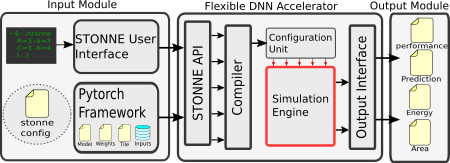
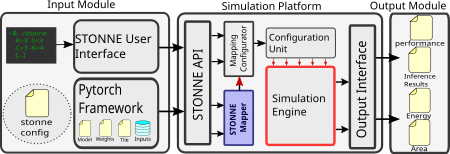
Update README with STONNE Mapper documentation

diff --git a/README.md b/README.md
@@ -7,6 +7,7 @@
     - [Flexible DNN Architecture](#flexible-dnn-architecture)
     - [Input Module](#input-module)
     - [Output module](#output-module)
+    - [STONNE Mapper: Module for automatic tile generation](#stonne-mapper-module-for-automatic-tile-generation)
   - [Supported Architectures](#supported-architectures)
   - [STONNE User Interface. How to run STONNE quickly.](#stonne-user-interface-how-to-run-stonne-quickly)
     - [Installation](#installation)
@@ -45,7 +46,7 @@ dense DNNs, more recent architectures have argued for flexibility to efficiently
 ![alt text](https://github.com/francisco-munoz/stonne/blob/master/figures/Top_Level_Stonne_shorter.png)
 
 STONNE is a cycle-level microarchitectural simulator for flexible DNN inference accelerators. To allow for end-to-end evaluations, the simulator is connected with a Deep Learning (DL) framework (Caffe and Pytorch DL frameworks in the current version). Therefore, STONNE can fully execute any dense and sparse DNN models supported by the DL framework that uses as its front-end.
- The simulator has been written entirely in C++, following the well-known GRASP and SOLID programming principles of object-oriented design. This has simplified its development and makes it easier the implementation of any kind of DNN inference accelerator microarchitecture, tile configuration mappings and dataflows.
+The simulator has been written entirely in C++, following the well-known GRASP and SOLID programming principles of object-oriented design. This has simplified its development and makes it easier the implementation of any kind of DNN inference accelerator microarchitecture, tile configuration mappings and dataflows.
 
 The figure presented above shows a high-level view of STONNE with the three major modules involved in the end-to-end simulation flow:
 
@@ -62,6 +63,16 @@ Furthermore, since these DL frameworks require a more complicated installation a
 ### Output module
 
 Once a simulation for a certain layer has been completed, this module is used for reporting simulation statistics such as performance, compute unit utilization, number of accesses to SRAM, wires and FIFOs, etc. Besides, this output module also reports the amount of energy consumed and the on-chip area required by the simulated architecture. These statistics obviously depend on the particular data format (e.g., fp16 or int8) utilized to represent the DNN model's parameters. So, STONNE supports different data formats in the whole end-to-end evaluation process and statistics report. For estimating both area and energy consumption, STONNE utilizes a table-based area and energy model, computing total energy using the cycle-level activity stats for each module. For the current table-based numbers existend in STONNE (see 'stonne/energy\_tables/' path), we ran synthesis using Synopsys Design-Compiler and place-and-route using Cadence Innovus on each module inside the MAERI and SIGMA RTL to populate the table. Users can plug in the numbers for their own implementations as well.
+
+### STONNE Mapper: Module for automatic tile generation
+
+Flexible architectures need to be configured previously to execute any layer, commonly using a tile specification. The specified tile will drastically vary the results obtained in each execution, so choosing a good configuration is an important step when doing simulations. However, finding an optimal configuration is a task that requieres so much time or a deep knowledge of how each mapping would work.
+
+For this reasson, STONNE includes a module called STONNE Mapper. It is a mapper which can automatically generate, given the hardware configuration and the specification of the layer to be simualated, a tile configuration that will be close to the optimum one in most cases. When used, the module will generate an output file with some extra information of the process used to select the tile. STONNE Mapper is an excellent alternative for fast prototyping and a good helper in finding the optimal tile configuration when the search space is very large.
+
+Currently, STONNE Mapper gives support to generate mappings of CONV, FC/DenseGEMM and SparseDense layers (how to use it in every case is explained later). For CONV mappings it integrates and use mRNA, another mapper designed for MAERI presented on ISPASS-2019. For FC/DenseGEMM and SparseDense it implements its own algorithms. In the most of the cases, the generated mappings gets more than the 90% of the performance from optimum configuration (based on the results obtained in our benchmarks), so it has a high trustly degree.
+
+This module and all of the implementations were made in a Final Degree Project in June 2022. Any question about its use or implementation can be made by contacting the author, Adrián Fenollar Navarro ([@Adrian-2105](https://github.com/Adrian-2105)).
 
 ## Supported Architectures	
 
@@ -89,7 +100,7 @@ Currently, STONNE runs 4 types of operations: Convolution Layers, FC Layers, Den
 
 The sintax of a STONNE user interface command to run any of the available operations is as follows:
 ```powershell
-./stonne [-h | -CONV | -FC | -SparseGEMM | -DenseGEMM] [Hardware parameters] [Dimension and tile Parameters]
+./stonne [-h | -CONV | -FC | -DenseGEMM | -SparseGEMM | SparseDense] [Hardware parameters] [Dimension and tile Parameters]
 ```
 
 ### Help Menu
@@ -125,7 +136,7 @@ The hardware parameters are common for all the kernels. Other parameters can be 
     
     Type of Multiplier network to be used. Linear is for flexible architectures, OS\_MESH for rigid architectures like TPU.
 
-* `mem_ctrl = [MAERI_DENSE_WORKLOAD, SIGMA_SPARSE_GEMM, TPU_OS_DENSE]`
+* `mem_ctrl = [MAERI_DENSE_WORKLOAD, SIGMA_SPARSE_GEMM, TPU_OS_DENSE, MAGMA_SPARSE_DENSE]`
     
     Type of memory controller to be used
 
@@ -140,11 +151,16 @@ The hardware parameters are common for all the kernels. Other parameters can be 
 
 ### Dimension and tile Parameters
 
-Obviously, the dimensions of the kernel depends on the type of the operation that is going to be run. Next, it is described the different parameters according to each supported operation:
+Obviously, the dimensions of the kernel depends on the type of the operation that is going to be run.
+
+If you intend to use STONNE Mapper to generate the tile configuration, note that the tile parameters (`T_x`) will be ignored and STONNE will only use the configuration it generates. In the same way, if you use STONNE Mapper, there is not need for the user to manually specify the tile parameters.
+
+
+Next, it is described the different parameters according to each supported operation:
 
 * CONV
 
-    * `layer_name`
+    * `layer_name = [CONV]`
         
         Name of the layer to run. The output statistic file will be named accordingly
 
@@ -216,6 +232,20 @@ Obviously, the dimensions of the kernel depends on the type of the operation tha
     
         Number of input columns mapped a time
 
+    * **STONNE Mapper**
+
+        * If used, the following parameters can be skipped: `strides`, `T_R`, `T_S`, `T_C`, `T_K`, `T_G`, `T_N`, `T_X_` and `T_Y_`.
+        
+        * When using it, it is mandatory to also use the option `-accumulation_buffer=1` to ensure that the tile configuration can adjust to the hardware resources.
+
+        * `generate_tile = [0 | none, 1 | performance, 2 | energy, 3 | energy_efficiency]`
+
+          STONNE Mapper is disabled by default (0, `none`). To use it you must to specify a target (1, 2 or 3; also the names can be used). The targets for the tile generation on CONV layers can be: `performance` (1) for maximize the performance, `energy` (2) for minimize the energy consumption and `energy-efficiency` (3) for get a balance between performance and energy.
+
+        * `generator = [Auto, mRNA]`
+
+          [Testing option] At the moment, only `mRNA` algorithm is supported for these type of layers.
+
     * **Constraints**
 
         Please make sure that these next constraints are followed (i.e., tile dimension must be multiple of its dimension):
@@ -231,7 +261,7 @@ Obviously, the dimensions of the kernel depends on the type of the operation tha
 
 * FC
 
-    * `layer_name = [str]`
+    * `layer_name = [FC]`
     
         Name of the layer to run. The output statistic file will be called by this name
 
@@ -259,9 +289,23 @@ Obviously, the dimensions of the kernel depends on the type of the operation tha
     
         Number of input neurons mapped at a time
 
+    * **STONNE Mapper**
+
+        * If used, the following parameters can be skipped: `T_M`, `T_N` and `T_K`.
+
+        * When using it, it is mandatory to also use the option `-accumulation_buffer=1` to ensure that the tile configuration can adjust to the hardware resources.
+
+        * `generate_tile = [0 | none, 1 | performance]`
+
+          STONNE Mapper is disabled by default (0, `none`). To use it you must to specify a target (1; also the names can be used). The only target available at the moment for the tile generation on FC/DenseGEMM layers is `performance` (1) for maximize the performance. However, the generated mapping is also the best mapping for the other targets for this type of layers.
+
+        * `generator = [Auto, StonneMapper, mRNA]`
+
+          [Testing option]  The user can select which algorithm to use to generate the mapping. By default, `StonneMapper` is always used because it gets better results in all cases (because it is a direct improvement of `mRNA`). This option should only be used if it is needed to test the mRNA tile generation for these type of layers.
+
 * DenseGEMM
 
-    * `layer_name = [str]`
+    * `layer_name = [DenseGEMM]`
     
         Name of the layer to run. The output statistic file will be called by this name
 
@@ -289,9 +333,24 @@ Obviously, the dimensions of the kernel depends on the type of the operation tha
     
         Number of K elements mapped at a time
 
+    * **STONNE Mapper**
+
+        * If used, the following parameters can be skipped: `T_M`, `T_N` and `T_K`.
+
+        * When using it, it is mandatory to also use the option `-accumulation_buffer=1` to ensure that the tile configuration can adjust to the hardware resources.
+
+        * `generate_tile = [0 | none, 1 | performance]`
+
+          STONNE Mapper is disabled by default (0, `none`). To use it you must to specify a target (1; also the names can be used). The only target available at the moment for the tile generation on FC/DenseGEMM layers is `performance` (1) for maximize the performance. However, the generated mapping is also the best mapping for the other targets for this type of layers.
+
+        * `generator = [Auto, StonneMapper, mRNA]`
+
+          [Testing option]  The user can select which algorithm to use to generate the mapping. By default, `StonneMapper` is always used because it gets better results in all cases (because it is a direct improvement of `mRNA`). This option should only be used if it is needed to test the mRNA tile generation for these type of layers.
+
+
 * SparseGEMM
 
-    * `layer_name = [str]`
+    * `layer_name = [SparseGEMM]`
     
         Name of the layer to run. The output statistic file will be called by this name
 
@@ -321,11 +380,61 @@ Obviously, the dimensions of the kernel depends on the type of the operation tha
     
         Apply compiler-based optimizations
 
+
+* SparseDense
+
+    * `layer_name = [SparseDense]`
+    
+        Name of the layer to run. The output statistic file will be called by this name
+
+    * `M = [x]` 
+    
+        Number of rows MK matrix
+
+    * `N = [x]`
+    
+        Number of columns KN matrix
+
+    * `K = [x]`
+    
+        Number of columns MK and rows KN matrix (cluster size)
+
+    * `MK_sparsity = [x]` 
+    
+        Percentage of sparsity MK matrix (0-100)
+
+    * `T_N = [x]`
+    
+        Number of N columns at a time
+
+    * `T_K = [x]`
+    
+        Number of K elements mapped at a time
+
+    * **STONNE Mapper**
+
+        * If used, the following parameters can be skipped: `T_N` and `T_K`.
+        
+        * When using it, it is mandatory to also use the option `-accumulation_buffer=1` to ensure that the tile configuration can adjust to the hardware resources.
+
+        * `generate_tile = [0 | none, 1 | performance]`
+
+          STONNE Mapper is disabled by default (0, `none`). To use it you must to specify a target (1; also the names can be used). The only target available at the moment for the tile generation on FC/DenseGEMM layers is `performance` (1) for maximize the performance. However, the generated mapping is also the best mapping for the other targets for this type of layers.
+
+        * `generator = [Auto, StonneMapper]`
+
+          [Testing option] At the moment, only `StonneMapper` algorithm is supported for these type of layers.
+
 ### Examples
 
-Example running a convolution layer: 
+Example running a CONV layer: 
 ```powershell
 ./stonne -CONV -R=3 -S=3 -C=6 -G=1 -K=6 -N=1 -X=20 -Y=20 -T_R=3 -T_S=3 -T_C=1 -T_G=1 -T_K=1 -T_N=1 -T_X_=3 -T_Y_=1 -num_ms=64 -dn_bw=8 -rn_bw=8
+```
+
+Example running a CONV layer generating the tile with STONNE Mapper (energy target): 
+```powershell
+./stonne -CONV -R=3 -S=3 -C=6 -G=1 -K=6 -N=1 -X=20 -Y=20 -generate_tile=energy -num_ms=64 -dn_bw=8 -rn_bw=8 -accumulation_buffer=1
 ```
 
 Example running a FC layer:
@@ -333,30 +442,47 @@ Example running a FC layer:
 ./stonne -FC -M=20 -N=20 -K=256 -num_ms=256 -dn_bw=64 -rn_bw=64 -T_K=64 -T_M=2 -T_N=1
 ```
 
-Example of running a sparse GEMM:
+Example running a FC layer generating the tile with STONNE Mapper (with mRNA algorithm and performance target):
 ```powershell
-./stonne -SparseGEMM -M=20 -N=20 -K=256 -num_ms=128 -dn_bw=64 -rn_bw=64  -MK_sparsity=80 -KN_sparsity=10 -dataflow=MK_STA_KN_STR
+./stonne -FC -M=20 -N=20 -K=256 -generate_tile=performance -generator=mRNA -num_ms=256 -dn_bw=64 -rn_bw=64 -accumulation_buffer=1
 ```
 
-Example of running a dense GEMM:
+Example of running a DenseGEMM:
 ```powershell
 /stonne -DenseGEMM -M=20 -N=20 -K=256 -num_ms=256 -dn_bw=64 -rn_bw=64 -T_K=64 -T_M=2 -T_N=1
 ```
 
-Example of running a dense GEMM over TPU:
+Example of running a DenseGEMM over TPU:
 ```powershell
 ./stonne -DenseGEMM -M=4 -N=4 -K=16 -ms_rows=4 -ms_cols=4 -dn_bw=8 -rn_bw=16  -T_N=4 -T_M=1 -T_K=1 -accumulation_buffer=1 -rn_type="TEMPORALRN" -mn_type="OS_MESH" -mem_ctrl="TPU_OS_DENSE"
 ```
 
+Example of running a SparseGEMM:
+```powershell
+./stonne -SparseGEMM -M=20 -N=20 -K=256 -num_ms=128 -dn_bw=64 -rn_bw=64  -MK_sparsity=80 -KN_sparsity=10 -dataflow=MK_STA_KN_STR
+```
+
+Example of running a SparseDense:
+```powershell
+./stonne -SparseDense -M=20 -N=20 -K=256 -MK_sparsity=80 -T_N=4 -T_K=32 -num_ms=128 -dn_bw=64 -rn_bw=64
+```
+
+Example of running a SparseDense generating the tile with STONNE Mapper (performance [1] target):
+```powershell
+./stonne -SparseDense -M=20 -N=20 -K=256 -MK_sparsity=80 -generate_tile=1 -num_ms=128 -dn_bw=64 -rn_bw=64 -accumulation_buffer=1
+```
+
 ### Output
 
-Every layer execution generates 2 files in the path in which the simulator has been executed (the env variable OUTPUT_DIR can be set to indicate another output path): 
+Every layer execution generates three files in the path in which the simulator has been executed (the env variable OUTPUT_DIR can be set to indicate another output path): 
 
-- A json file with all the hardware statistics generated during the execution. 
+- A JSON file with all the hardware statistics generated during the execution. 
 
-- A counters file with the number of use of every component of the architecture generated. This can be utilized to generate the energy model. 
+- A counters file with the number of use of every component of the architecture generated. This can be utilized to generate the energy model.
 
-Note that after the execution, the results obtained in the output tensor by the simulator are compared with a  CPU algorithm to ensure the correctness of the simulator. Note that if the simulator does not output the correct results, an assertion will raise at the end of the execution. 
+- [Only if STONNE Mapper was used] A brief report about the process made by the module to select an efficient tile and the tile used.
+
+Note that after the execution, the results obtained in the output tensor by the simulator are compared with a CPU algorithm to ensure the correctness of the simulator. Note that if the simulator does not output the correct results, an assertion will raise at the end of the execution. 
 
 
 
@@ -377,7 +503,7 @@ The pytorch-frontend is located in the folder 'pytorch-frontend' and this basica
 
 ### Installation
 
-Installing Pytorch-frontend will make the same effort as installing the original Pytorch framework (see 'pytorch-frontend/README.md' or access to their original repository). 
+Installing Pytorch-frontend will make the same effort as installing the original PyTorch framework (see 'pytorch-frontend/README.md' or access to their original repository). 
 
 First, you will need Python 3.6 or later and a C++14 compiler. Also, we highly recommend installing an Anaconda environment. Once you have Anaconda installed (https://www.anaconda.com/products/individual) you can proceed to the installation. Next, we summarize the installation process on Linux (Please refer to the original Pytorch documentation to learn how to install it in other operating system):
 
@@ -410,7 +536,7 @@ Please, follow the official instructions for each dependency if something occurs
 ### Running PyTorch in STONNE
 
 Running pytorch using STONNE as a device is almost straightforward.
-Let's assume we define a DNN model using pytorch. This model is composed of a single and simple convolutional layer. Next, we present this code:
+Let's assume we define a DNN model using PyTorch. This model is composed of a single and simple convolutional layer. Next, we present this code:
 
 ```python
 class Net(nn.Module):
@@ -450,7 +576,7 @@ As we can see, we have inserted 4 new parameters:
 
 * `tile (str)`
 
-    This is the path to a file that defines the tile to be used to partition that layer. An example of this file might be found in 'minibenchmarks/dogsandcats_tile.txt' (Note that an example for a linear tile file might be found in 'minibenchmarks/dogsandcats_tile_fc.txt'). This parameter only will make sense if the hardware configuration file contains a dense memory controller. If the memory controller is sparse, then the execution will not require tiling as it is explained in SIGMA paper.
+    This is the path to a file that defines the tile to be used to partition that layer. An example of this file might be found in `minibenchmarks/dogsandcats_tile.txt` (note that an example for a linear tile file might be found in `minibenchmarks/dogsandcats_tile_fc.txt`). Also an example using STONNE Mapper for generate automatically a tile can be found in `minibenchmarks/dogsandcats_tile_stonnemapper.txt` (same parameters as if used from the CLI). This parameter only will make sense if the hardware configuration file contains a dense memory controller. If the memory controller is sparse, then the execution will not require tiling as it is explained in SIGMA paper.
 
 * `sparsity_ratio (float 0.0-1.0)`
 
@@ -461,16 +587,16 @@ As we can see, we have inserted 4 new parameters:
     This is an optional parameter and points to a folder in which the stats of the simulation of that layer will be stored. 
 
 
-The addition of these 4 parameters and the modification of the function will let pytorch  run the layer in STONNE obtaining the real tensors.
+The addition of these 4 parameters and the modification of the function will let PyTorch run the layer in STONNE obtaining the real tensors.
 
-In the current version of the pytorch-frontend we also support nn.SimulatedLinear and torch_stonne.SimulatedMatmul operations that correspond with both nn.Linear and nn.Matmul operations in the original pytorch framework. The only need is to change the name of the functions and indicate the 3 extra parameters. 
+In the current version of the pytorch-frontend we also support `nn.SimulatedLinear` and `torch_stonne.SimulatedMatmul` operations that correspond with both `nn.Linear` and `nn.Matmul` operations in the original PyTorch framework. The only need is to change the name of the functions and indicate the 3 extra parameters. 
 
 
 ### Simulation with real benchmarks
 
 In order to reduce the effort of the user, we have already migrated some models to STONNE. By the moment, we have 4 DNN benchmarks in this framework: Alexnet, SSD-mobilenets, SSD-Resnets1.5 and BERT. All of them are in the folder 'benchmarks'. Note that to migrate these models, we have had to understand the code of all of them, locate the main kernels (i.e., convolutions, linear and matrix multiplication operations) and turn the functions into the simulated version. That is the effort you require to migrate a new model. We will update this list over time. 
 
-Running these models is straightforward as we have prepared a script ('benchmarks/run_benchmarks.py file') that performs all the task automatically. Next, we present one example for each network:
+Running these models is straightforward as we have prepared a script (`benchmarks/run_benchmarks.py` file) that performs all the task automatically. Next, we present one example for each network:
 
 ```
 cd benchmarks
